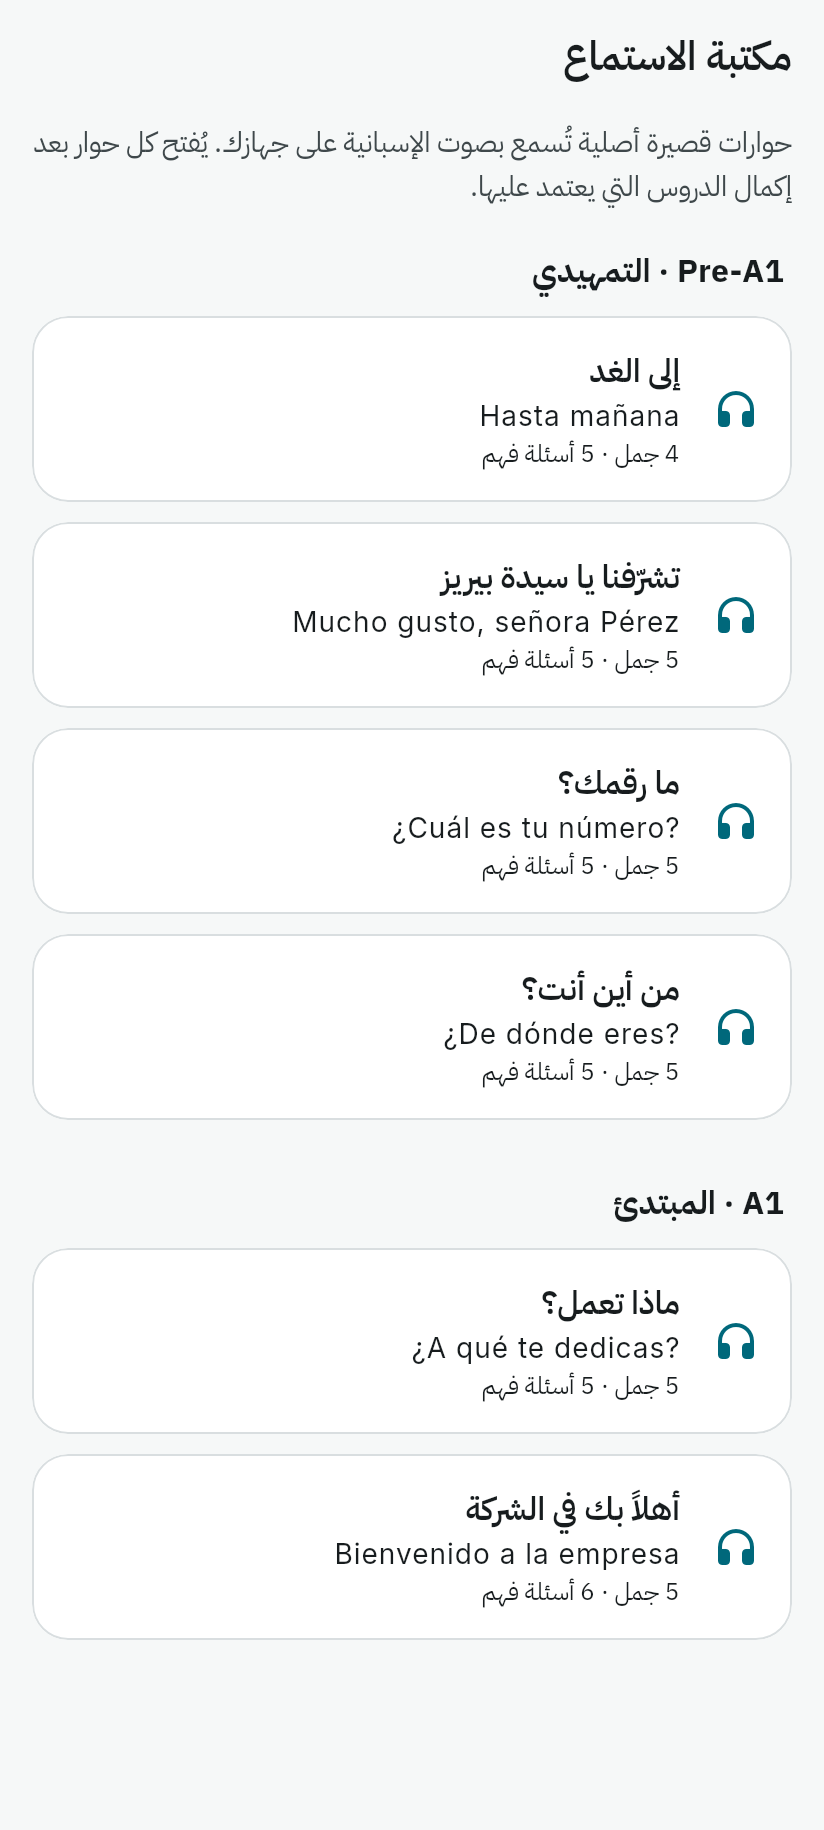
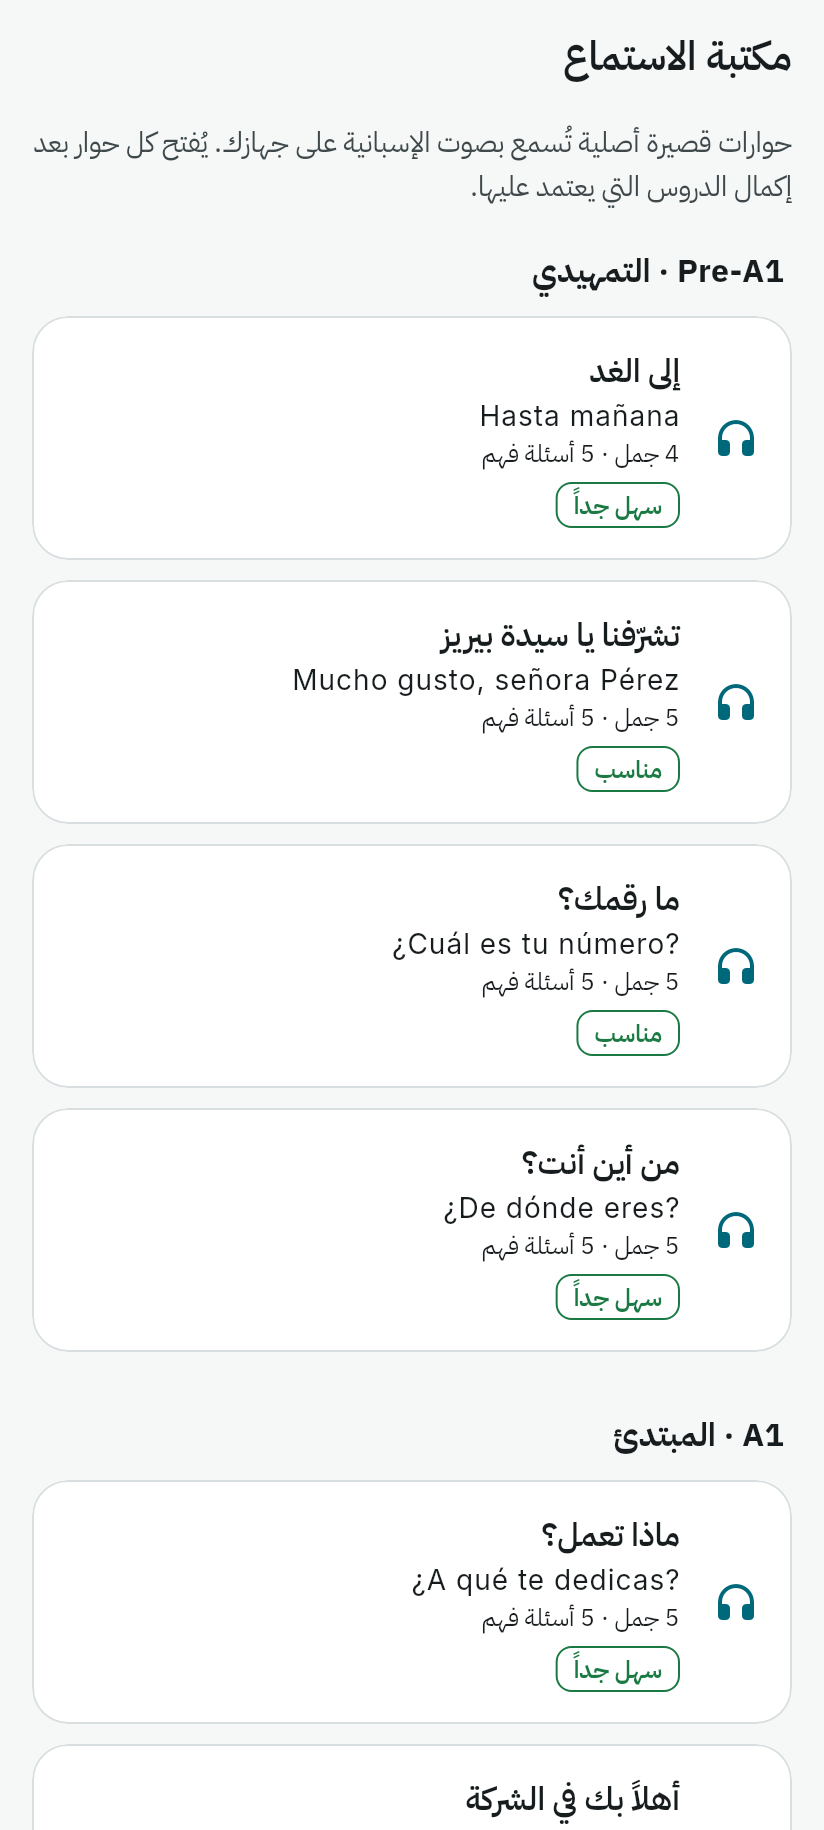
feat(assessment): checkpoints play dialogue sentences and explain mistakes
A checkpoint question can name a dialogue turn; it then plays exactly
that sentence. The validator requires the dialogue to be in the
checkpoint's unit and the question to measure listening. Four listening
questions now use dialogue sentences, so the affected checkpoints move
to version 2 (content 1.1.1). Grammar questions explain the right answer
on the result screen, which also labels each typed outcome.

Docs: typed-outcome values, checkpoint schema, 1.2C status and plan.

Claude-Session: https://claude.ai/code/session_014cGpiLcERRNXHMXNNCGtL2

diff --git a/lib/core/content/content_parser.dart b/lib/core/content/content_parser.dart
@@ -91,11 +91,16 @@ Future<ContentPack> parseContentPack(ContentReader read) async {
       dialogues.add(_dialogue((raw as Map).cast<String, dynamic>()));
     }
   }
+  // Turn text by id, so a checkpoint question can play a dialogue sentence.
+  final turns = {
+    for (final d in dialogues)
+      for (final t in d.turns) t.id: t.es,
+  };
   final assessments = <Assessment>[];
   for (final file in _strings(root['assessment_files'])) {
     final json = jsonDecode(await read(file)) as Map<String, dynamic>;
     for (final raw in json['assessments'] as List? ?? const []) {
-      assessments.add(_assessment((raw as Map).cast<String, dynamic>()));
+      assessments.add(_assessment((raw as Map).cast<String, dynamic>(), turns));
     }
   }
   return ContentPack(
@@ -227,7 +232,7 @@ DialogueQuestion _question(String dialogueId, int i, Map<String, dynamic> j) =>
       explainAr: j['explain_ar'] as String? ?? '',
     );
 
-Assessment _assessment(Map<String, dynamic> j) {
+Assessment _assessment(Map<String, dynamic> j, Map<String, String> turns) {
   final id = j['id'] as String;
   final questions = j['questions'] as List? ?? const [];
   return Assessment(
@@ -252,6 +257,7 @@ Assessment _assessment(Map<String, dynamic> j) {
           id,
           i,
           (questions[i] as Map).cast<String, dynamic>(),
+          turns,
         ),
     ],
     sourceId: j['source'] as String? ?? '',
@@ -262,15 +268,20 @@ AssessmentQuestion _assessmentQuestion(
   String assessmentId,
   int i,
   Map<String, dynamic> j,
+  Map<String, String> turns,
 ) => AssessmentQuestion(
   id: j['id'] as String? ?? '$assessmentId.q${i + 1}',
+  dialogueTurnId: j['dialogue_turn'] as String?,
+  explainAr: j['explain_ar'] as String? ?? '',
   type: j['type'] as String? ?? '',
   skill: j['skill'] as String? ?? '',
   canDoId: j['can_do'] as String? ?? '',
   promptAr: j['prompt_ar'] as String? ?? '',
   stimulusEs: j['stimulus_es'] as String?,
   stimulusAr: j['stimulus_ar'] as String?,
-  audioEs: j['audio_es'] as String?,
+  // A dialogue turn supplies the audio, so the checkpoint plays exactly
+  // the sentence the learner heard in the listening library.
+  audioEs: j['audio_es'] as String? ?? turns[j['dialogue_turn']],
   choices: _strings(j['choices']),
   answer: j['answer'] as int? ?? 0,
   choicesEs: j['choices_es'] as bool? ?? true,

diff --git a/test/assessment_content_test.dart b/test/assessment_content_test.dart
@@ -47,6 +47,31 @@ void main() {
       }
     });
 
+    test('dialogue-turn questions play exactly the dialogue sentence', () {
+      final linked = [
+        for (final a in pack.assessments)
+          for (final q in a.questions)
+            if (q.dialogueTurnId != null) (a, q),
+      ];
+      expect(linked.length, greaterThanOrEqualTo(3));
+      for (final (a, q) in linked) {
+        final d = pack.dialogues.firstWhere(
+          (d) => d.turns.any((t) => t.id == q.dialogueTurnId),
+        );
+        expect(q.audioEs, d.turn(q.dialogueTurnId!)!.es, reason: q.id);
+        expect(d.unitId, a.unitId, reason: q.id);
+        expect(q.skill, 'listening');
+      }
+    });
+
+    test('grammar questions explain the right answer', () {
+      for (final a in pack.assessments) {
+        for (final q in a.questions.where((q) => q.skill == 'grammar')) {
+          expect(q.explainAr, isNotEmpty, reason: q.id);
+        }
+      }
+    });
+
     test('every can-do has at least two questions as evidence', () {
       for (final a in pack.assessments) {
         for (final c in a.canDos) {
@@ -219,5 +244,33 @@ void main() {
         }
       }, 'needs at least 3 different skills'),
     );
+  });
+
+  group('validator rejects broken dialogue links', () {
+    Map<String, dynamic> linked(List<Map<String, dynamic>> as) => as
+        .expand((a) => (a['questions'] as List).cast<Map<String, dynamic>>())
+        .firstWhere((q) => q['dialogue_turn'] != null);
+
+    test('unknown turn', () async {
+      final issues = await issuesWith(
+        (as) => linked(as)['dialogue_turn'] = 'dlg_nothing.t1',
+      );
+      expect(issues.join('\n'), contains('unknown dialogue turn'));
+    });
+
+    test('a dialogue from another unit', () async {
+      final issues = await issuesWith(
+        (as) => linked(as)['dialogue_turn'] = 'dlg_pa1_telefono.t2',
+      );
+      expect(issues.join('\n'), contains("outside this assessment's scope"));
+    });
+
+    test('a dialogue-turn question must measure listening', () async {
+      final issues = await issuesWith((as) => linked(as)['skill'] = 'reading');
+      expect(
+        issues.join('\n'),
+        contains('a dialogue-turn question measures listening'),
+      );
+    });
   });
 }

diff --git a/test/assessment_flow_test.dart b/test/assessment_flow_test.dart
@@ -262,4 +262,38 @@ void main() {
     expect(await stateText(app), canDoLabels[CanDoState.needsPractice]);
     await app.dispose(tester);
   });
+
+  testWidgets('wrong answers are explained; edited checkpoints are flagged', (
+    tester,
+  ) async {
+    final u2 = pack.assessment('chk_pa1_u2')!;
+    expect(u2.version, greaterThan(1));
+    final app = TestApp(pack);
+    final repo = AssessmentRepository(app.db, clock: app.clock.call);
+    final id = await repo.submit(
+      assessment: u2,
+      graded: gradeAssessment(u2, {
+        for (final q in u2.questions) q.id: q.correctAnswer,
+        'chk_pa1_u2.q3': 'Buenos',
+        'chk_pa1_u2.q6': 'De nda',
+      }),
+      startedAt: app.clock(),
+      contentVersion: pack.version,
+    );
+    // An attempt taken against the earlier question set.
+    await app.db.customStatement(
+      'UPDATE assessment_attempts SET assessment_version = 1 WHERE id = $id',
+    );
+    await app.pump(tester, location: '/assessment/${u2.id}/result/$id');
+    expect(find.textContaining('تغيّرت أسئلة نقطة التحقق'), findsOneWidget);
+    final explain = find.byKey(const ValueKey('explain-chk_pa1_u2.q3'));
+    await tester.scrollUntilVisible(explain, 200);
+    expect(tester.widget<Text>(explain).data, contains('Buenas'));
+    final outcome = find.byKey(const ValueKey('outcome-chk_pa1_u2.q6'));
+    await tester.scrollUntilVisible(outcome, 200);
+    expect(tester.widget<Text>(outcome).data, Spelling.labelAr('spelling'));
+    // Right answers carry no explanation.
+    expect(find.byKey(const ValueKey('explain-chk_pa1_u2.q5')), findsNothing);
+    await app.dispose(tester);
+  });
 }

diff --git a/lib/core/content/content_validator.dart b/lib/core/content/content_validator.dart
@@ -396,6 +396,22 @@ class ContentValidator {
       for (final q in a.questions) {
         final qw = '$w/${q.id}';
         if (!questionIds.add(q.id)) err(qw, 'duplicate question id');
+        final turnId = q.dialogueTurnId;
+        if (turnId != null) {
+          final d = pack.dialogues
+              .where((d) => d.turns.any((t) => t.id == turnId))
+              .firstOrNull;
+          if (d == null) {
+            err(qw, 'unknown dialogue turn "$turnId"');
+          } else if (a.unitId != null
+              ? d.unitId != a.unitId
+              : d.levelId != a.levelId) {
+            err(qw, 'dialogue "${d.id}" is outside this assessment\'s scope');
+          }
+          if (q.skill != 'listening') {
+            err(qw, 'a dialogue-turn question measures listening');
+          }
+        }
         if (!AssessmentQuestion.types.contains(q.type)) {
           err(qw, 'unknown question type "${q.type}"');
           continue;

diff --git a/lib/features/assessment/assessment_screens.dart b/lib/features/assessment/assessment_screens.dart
@@ -744,6 +744,15 @@ class _AnswerRow extends StatelessWidget {
               const SizedBox(height: 2),
             ],
             text(answer.expected, color: ok),
+            if (!answer.isCorrect && (question?.explainAr ?? '').isNotEmpty)
+              Padding(
+                padding: const EdgeInsets.only(top: 6),
+                child: Text(
+                  question!.explainAr,
+                  key: ValueKey('explain-${answer.questionId}'),
+                  style: t.textTheme.bodySmall!.copyWith(height: 1.6),
+                ),
+              ),
             if (Spelling.labelAr(answer.spelling).isNotEmpty)
               Padding(
                 padding: const EdgeInsets.only(top: 4),

diff --git a/lib/core/content/models.dart b/lib/core/content/models.dart
@@ -499,12 +499,21 @@ class AssessmentQuestion {
     this.answer = 0,
     this.choicesEs = true,
     this.accepted = const [],
+    this.dialogueTurnId,
+    this.explainAr = '',
   });
 
   final String id;
   final String type;
   final String skill;
   final String canDoId;
+
+  /// When set, [audioEs] is this dialogue turn's sentence.
+  final String? dialogueTurnId;
+
+  /// Shown on the result screen after a wrong answer (never during the
+  /// checkpoint).
+  final String explainAr;
   final String promptAr;
   final String? stimulusEs;
   final String? stimulusAr;

diff --git a/AI_BRIDGE/PROJECT_PLAN.md b/AI_BRIDGE/PROJECT_PLAN.md
@@ -1,7 +1,7 @@
 # Español Pro — الخطة الشاملة للمشروع
 
 owner: Claude Code
-plan_version: 5
+plan_version: 6
 updated_at_utc: 2026-11-17T10:00:00Z
 يُحدَّث مع كل handoff. آخر حالة تنفيذ مرجعية: `AI_BRIDGE/CLAUDE_STATUS.md`.
 
@@ -156,7 +156,7 @@ updated_at_utc: 2026-11-17T10:00:00Z
 |---|---|---|
 | عدم ادّعاء مستوى من إكمال الدروس | ✅ | شاشة التقدّم تصرّح بذلك |
 | دلائل لكل مهارة من المحاولة الأولى فقط (إعادة المحاولة لا تُحتسب) | ✅ | `progress_test` (PR #2، مدموج) |
-| تقرير جودة الإملاء منفصلاً عن الصواب، وتشديد علامات النبر مع تقدّم المستوى | 🟡 | نقاط التحقق تخزّن `spelling` (exact / missing_accents / wrong) — PR 1.2B؛ التمييز الدلالي (si/sí، tu/tú، ñ) والتشديد — PR 1.2C |
+| تقرير جودة الإملاء منفصلاً عن الصواب، وتشديد علامات النبر مع تقدّم المستوى | 🟡 | تشخيص الإجابة المكتوبة (نبر يغيّر المعنى، ñ، صيغة، ترتيب، إملاء) — PR 1.2C؛ التشديد في المستويات الأعلى مع A2 |
 | نقاط تحقق الوحدات (4: Pre-A1 U1–U3، A1-U1) بنتائج ذرّية في SQLite v5 | 🟡 | `assessment_test`، `assessment_flow_test` — PR 1.2B قيد المراجعة؛ اختبار مستوى A1 — المرحلة 1.3 |
 | أدلة «أستطيع أن…» من نقاط التحقق فقط، بقاعدة موثّقة ظاهرة للمتعلّم | 🟡 | `assessment_test`، `assessment_flow_test` — PR 1.2B |
 | تقدير مستوى بثقة مبنية على أدلة | ⬜ | بعد توفّر الاختبارات |
@@ -253,9 +253,9 @@ updated_at_utc: 2026-11-17T10:00:00Z
 | العمل | معيار القبول |
 |---|---|
 | مكتبة حوارات مبنية على محتوى الدروس: نص اختياري، ترجمة اختيارية، إعادة جملة، سرعات | اختبار واجهة + مدقّق محتوى للحوارات — 🟡 PR 1.2A |
-| مقدِّر صعوبة بالقواعد (نسبة الكلمات المعروفة، طول الجملة، القواعد المستخدمة) | اختبارات وحدة حتمية |
+| مقدِّر صعوبة بالقواعد (نسبة الكلمات المعروفة، طول الجملة، القواعد المستخدمة) | اختبارات وحدة حتمية — 🟡 PR 1.2C |
 | نقاط تحقق الوحدات: مهام بلا تلميحات على مادة الوحدة | نتائج في SQLite بترحيل **v5** مختبَر؛ تعريفات في JSON — 🟡 PR 1.2B |
-| جودة الإملاء منفصلة عن الصواب؛ علامات النبر إلزامية في الأنشطة المتقدمة | عمود لحكم التصحيح + اختبارات |
+| جودة الإملاء منفصلة عن الصواب؛ علامات النبر إلزامية في الأنشطة المتقدمة | عمود لحكم التصحيح + اختبارات — 🟡 PR 1.2C |
 | عرض أدلة «أستطيع أن…» لكل وحدة بناءً على نتائج نقاط التحقق | لا يظهر أي تقدير بلا نتيجة اختبار — 🟡 PR 1.2B |
 
 ### 1.3 — إكمال A1

diff --git a/docs/IMPLEMENTATION_STATUS.md b/docs/IMPLEMENTATION_STATUS.md
@@ -79,6 +79,21 @@ remain at v3.
 | Fractions ("8 / 10") read left to right inside Arabic text (also fixed in the matching exercise counter) | screenshots 13, 22 |
 | Not verified on a device: checkpoint audio, keyboard with the accent bar, result screen scrolling | — |
 
+## Phase 1.2C — answer quality, difficulty, checkpoint feedback (PR in review)
+
+| Area | Evidence |
+|---|---|
+| Typed answers diagnosed: harmless accents (accepted with a reminder), meaning-bearing accents si/sí, tu/tú, el/él, mi/mí, te/té, se/sé, de/dé, más, aún, está, papá (wrong), ñ ≠ n (wrong), word order, wrong word form (ending, plural, article), spelling near miss, different answer | `answer_evaluator_test` |
+| Lessons and review show the reason; the error notebook files typed mistakes as spelling, grammar, word order or vocabulary from the diagnosis | `answer_evaluator_test`, `progress_test`, full suite |
+| Checkpoints store the finer outcome; backups accept it; old `wrong` values stay valid | `assessment_test`, `assessment_flow_test` |
+| Difficulty estimate per dialogue (very easy / appropriate / challenging / too difficult) from known-word coverage, new grammar and sentence length, with the reasons shown; every boundary tested | `difficulty_test`, `listening_flow_test` |
+| Checkpoints play real dialogue sentences (4 questions, content 1.1.1, checkpoint versions 2); validator checks the link | `assessment_content_test` |
+| Result screen explains wrong grammar answers and labels each typed outcome; edited checkpoints are flagged on old results | `assessment_flow_test` |
+| Not verified on a device: dialogue sentences played inside checkpoints | — |
+
+Interrogative accents (qué, cómo, dónde …) remain accepted with a reminder at
+Pre-A1/A1; this is a deliberate, documented choice.
+
 ## Android build and runtime
 
 - The [code commit's CI run](https://github.com/abdulrahmanal-saeed/Espa-ol-Pro/actions/runs/43900871431)
@@ -127,9 +142,9 @@ remain at v3.
    goal (it counts completions dated today, not only first completions).
 5. Review queue is capped at 60 cards per session.
 6. Curriculum entities are in JSON, not SQL tables (deliberate — DATABASE.md).
-7. Spelling quality is not yet reported separately: an answer accepted with
-   an accent reminder is stored as correct. Planned for Phase 1.2 together
-   with stricter accent requirements at higher levels.
+7. Lesson attempts still store accepted-with-accent-reminder answers as
+   correct (only checkpoints store the outcome). Stricter accent rules for
+   higher levels are planned with A2.
 8. A final flush started while the review screen is being closed is not
    awaited (dispose cannot wait). It is normally preceded by the lifecycle
    flush when the app leaves the foreground, which is the reliable path

diff --git a/docs/DATABASE.md b/docs/DATABASE.md
@@ -74,7 +74,7 @@ erDiagram
         int id PK
         int attempt_id FK
         text question_id  text skill  text can_do_id
-        bool is_correct  text spelling "exact | missing_accents | wrong | null"
+        bool is_correct  text spelling "typed outcome, see below; null for choices"
         text user_answer  text expected
     }
     REVIEW_CARDS ||--o{ REVIEW_LOGS : "has history (cascade)"
@@ -129,8 +129,22 @@ earlier results. `assessment_version` records which definition was taken, so
 a later edit of the questions never reinterprets an old result.
 
 `score`/`max_score` count objectively graded questions only; speaking is never
-measured. `spelling` keeps "meaning right, accents missing" apart from
-"exact" instead of hiding it inside `is_correct`. Assessments never write to
+measured. `spelling` stores the outcome of a typed answer, so that
+"meaning right, accents missing" is never hidden inside `is_correct`:
+
+| value | `is_correct` | meaning |
+|---|---|---|
+| `exact` | true | matches an accepted answer |
+| `missing_accents` | true | only accents differ, none of them changes the meaning |
+| `accent_meaning` | false | a meaning-bearing accent is missing or wrong (si/sí, tu/tú, el/él …) |
+| `enye` | false | ñ written as n (or the reverse) |
+| `word_order` | false | the same words in another order |
+| `grammar_form` | false | one word has the wrong ending, plural or article |
+| `spelling` | false | a near miss of the right word |
+| `meaning` | false | a different answer |
+| `wrong` | false | an empty answer, or a wrong answer stored before 1.2C |
+
+The column is text and the change is additive: no migration was needed. Assessments never write to
 FSRS cards, lesson progress, `activity_attempts` or the error notebook.
 Can-do states are derived from these rows, never stored
 (`CanDoEvidence` in `lib/core/assessment/assessment_engine.dart`, also

diff --git a/docs/CONTENT_SCHEMA.md b/docs/CONTENT_SCHEMA.md
@@ -159,6 +159,18 @@ from `activity_attempts` rows with `context = 'listening'` whose
 | `type` | `prompt_ar`, `accepted` | the answer evaluator; missing accents = meaning right, spelling recorded apart |
 | `dictation` | `audio_es` | as `type`, against `audio_es` |
 
+Optional on any question:
+
+- `dialogue_turn`: the id of a dialogue turn (content ≥ 1.1.1). The question
+  plays exactly that sentence (it becomes `audio_es`). The dialogue must
+  belong to the checkpoint's unit (or level for a level assessment), and the
+  question must measure listening.
+- `explain_ar`: shown on the result screen after a wrong answer, never
+  during the checkpoint. Every grammar question has one.
+
+Changing a checkpoint's questions requires bumping its `version`; results
+taken against an earlier version are shown as recorded, with a note.
+
 Validation: unique ids; `version ≥ 1`; title and intro present; known source;
 a `unit` checkpoint names an available unit of its level, one per unit; a
 `level` assessment names no unit; each can-do has Arabic text, lessons inside
